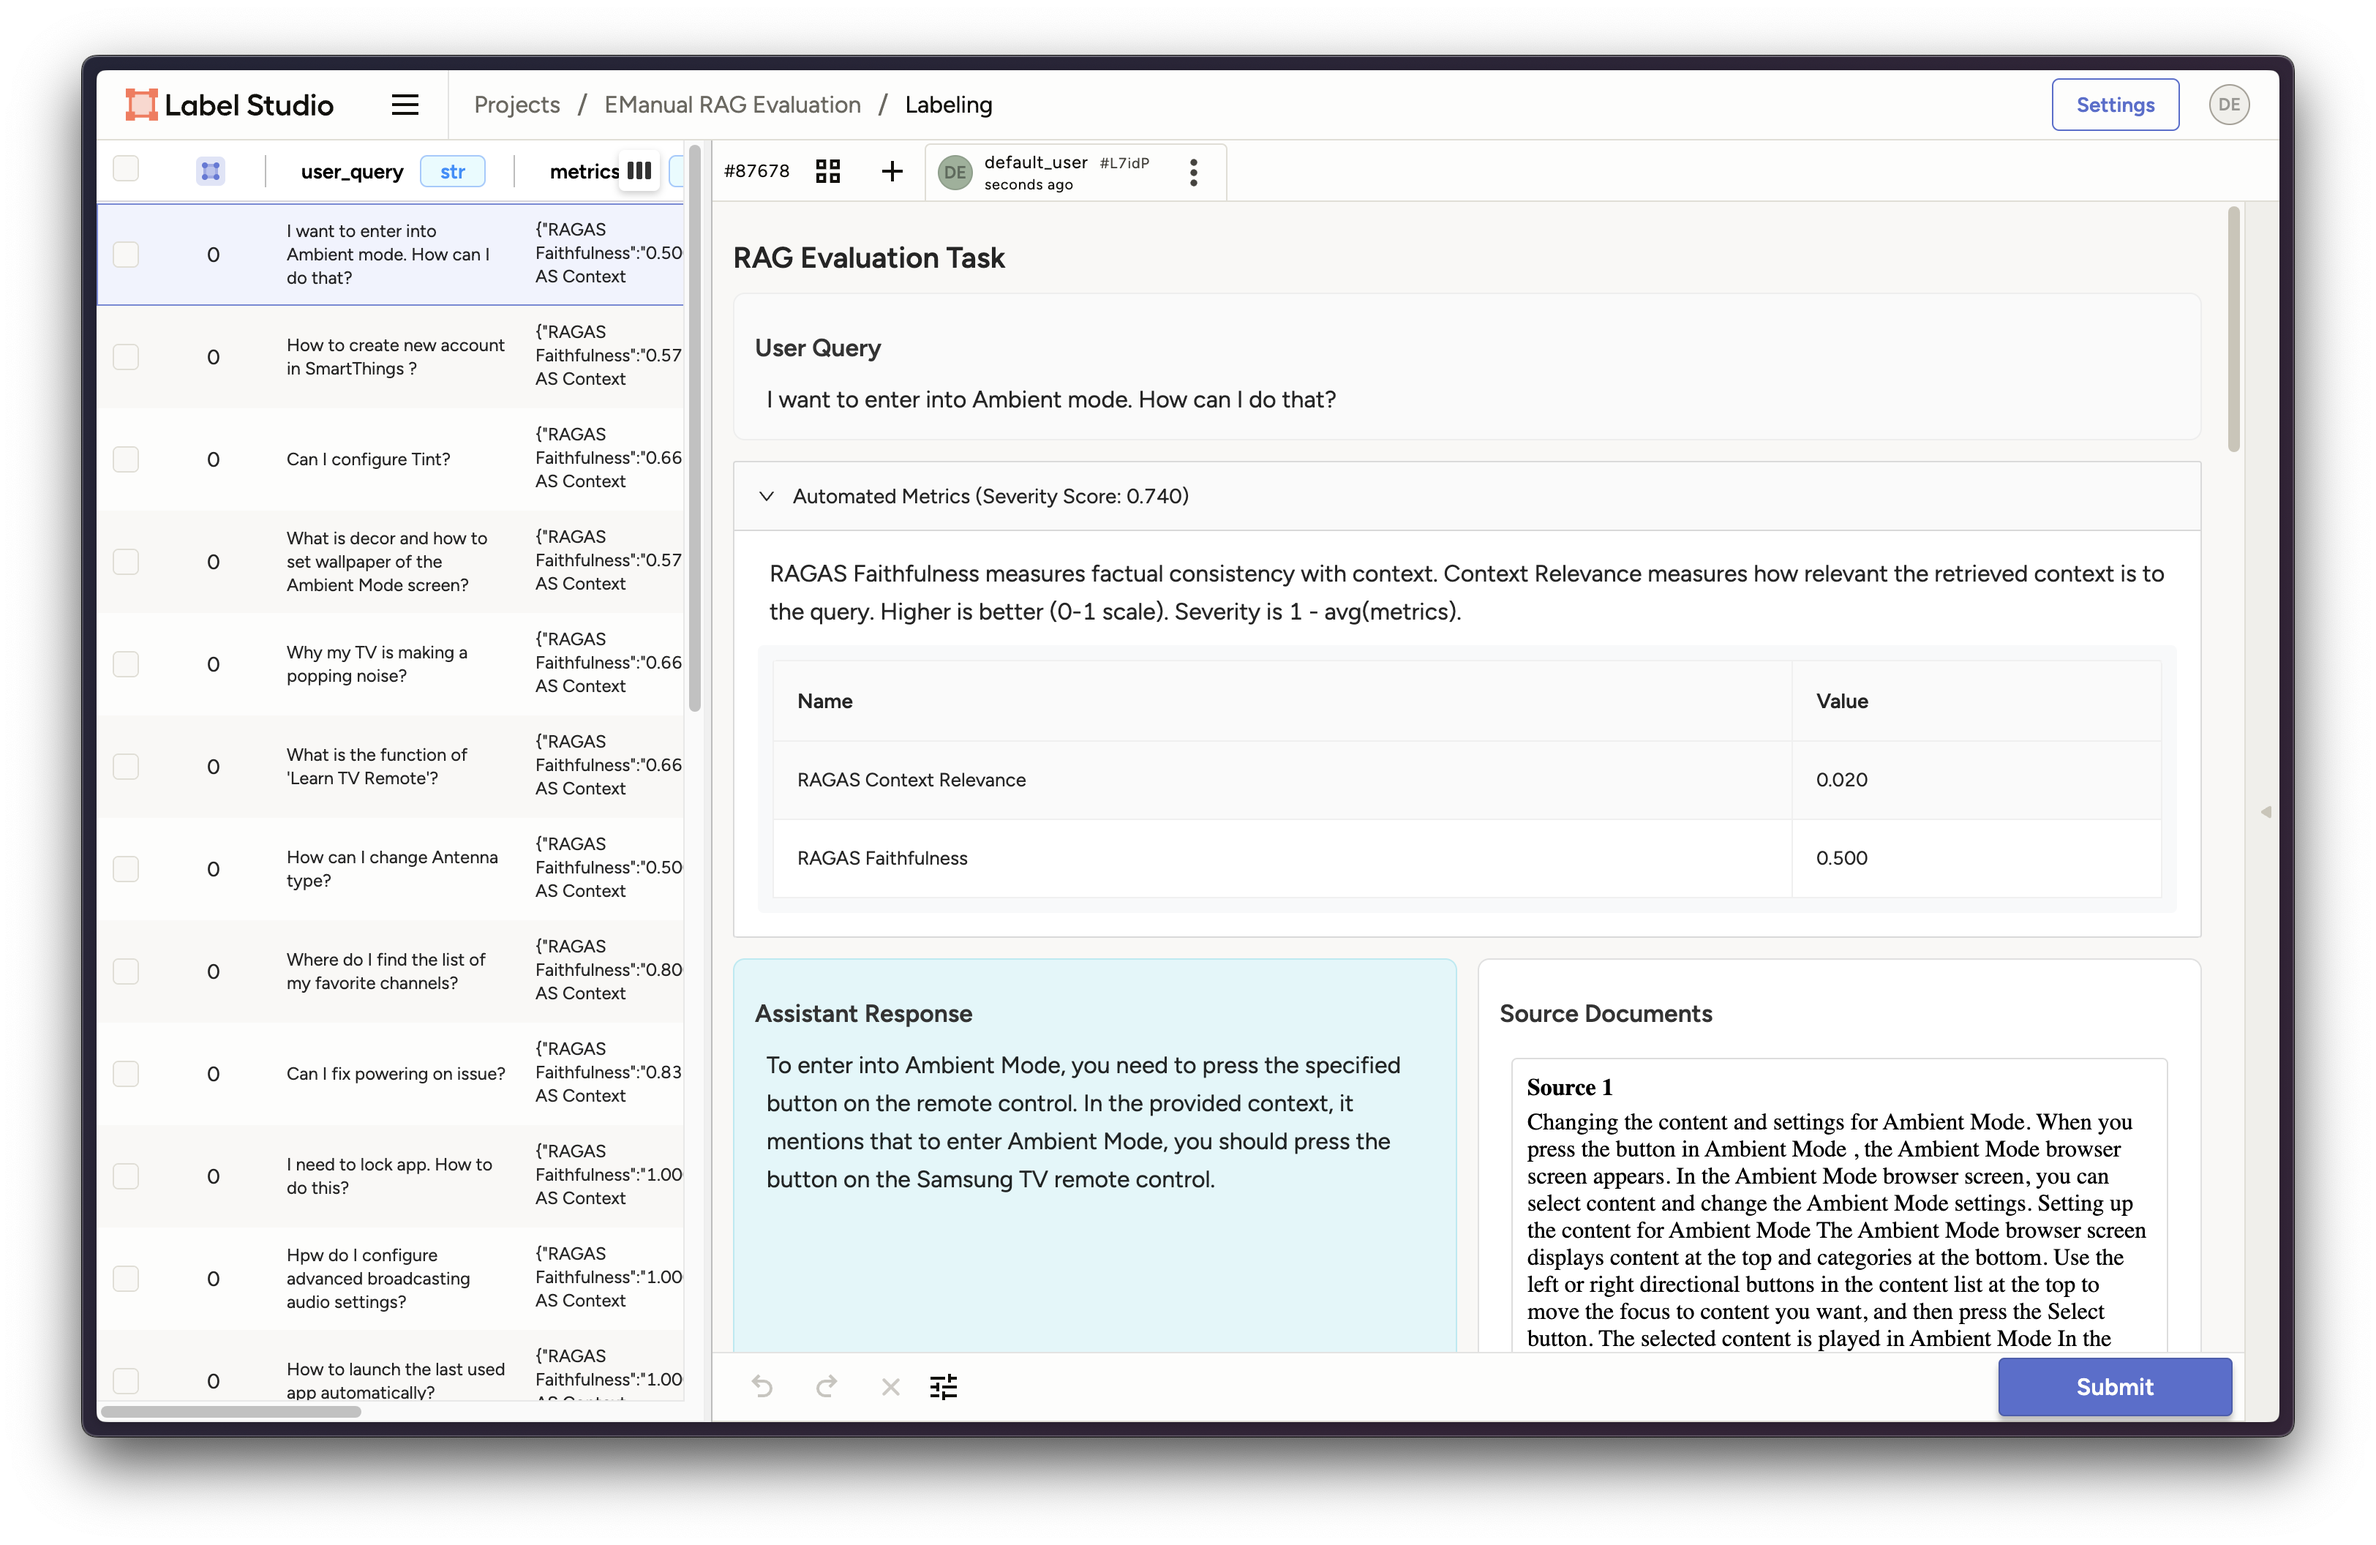
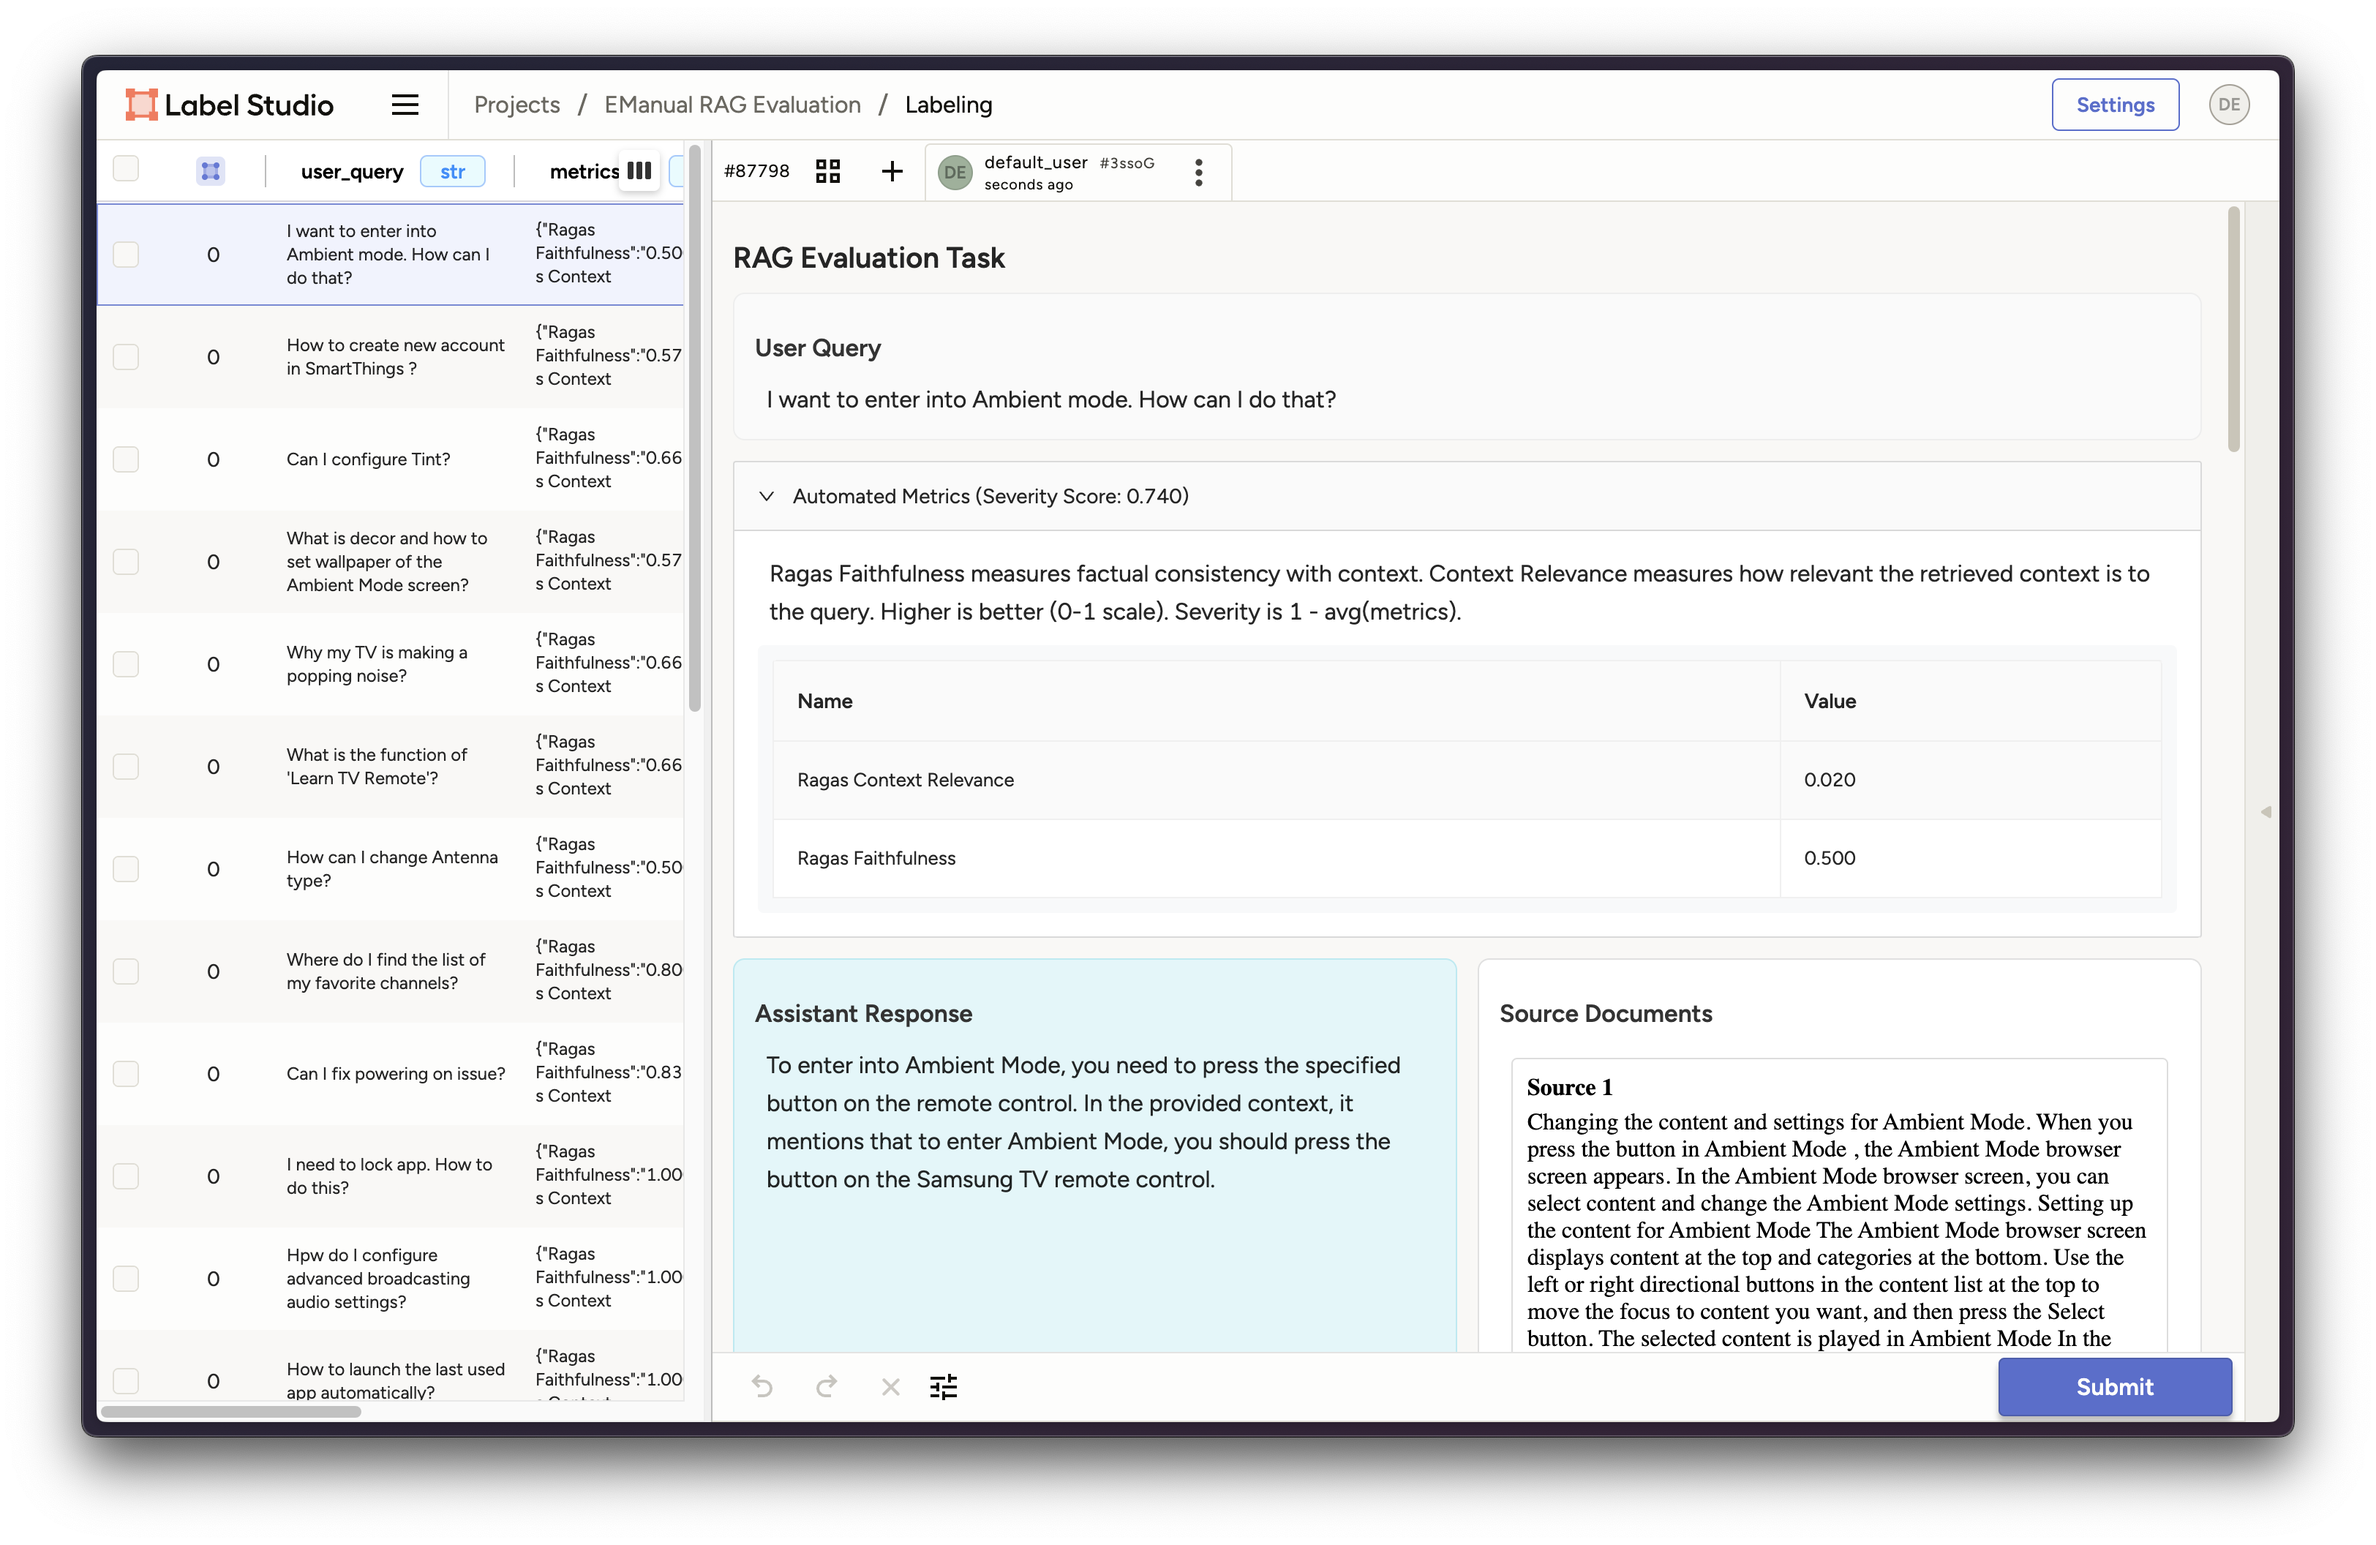
Changed RAGAS to Ragas to match other references

diff --git a/rag-qa-review/README.md b/rag-qa-review/README.md
@@ -2,18 +2,18 @@
 
 This example demonstrates how to use Label Studio to review and evaluate the outputs of a Retrieval-Augmented Generation (RAG) system.
 
-It leverages the [RAGBench dataset](https://huggingface.co/datasets/rungalileo/ragbench) (specifically the `emanual` subset, containing questions and answers based on consumer electronics manuals) and the [RAGAS](https://github.com/explodinggradients/ragas) framework for automated evaluation metrics.
+It leverages the [RAGBench dataset](https://huggingface.co/datasets/rungalileo/ragbench) (specifically the `emanual` subset, containing questions and answers based on consumer electronics manuals) and the [Ragas](https://github.com/explodinggradients/ragas) framework for automated evaluation metrics.
 
 ## Workflow
 
 The core workflow implemented in the accompanying Jupyter Notebook ([`RAG_Review.ipynb`](./RAG_QA_Review.ipynb)) is as follows:
 
-1.  **Load Data**: Loads the RAGBench `emanual` test dataset, which includes questions, generated responses, retrieved source documents, and pre-computed RAGAS metrics (faithfulness, context relevance).
-2.  **Identify Critical Samples**: Filters the dataset to find samples where the RAG system performed poorly, based on configurable thresholds for RAGAS `faithfulness` and `context_relevance`.
+1.  **Load Data**: Loads the RAGBench `emanual` test dataset, which includes questions, generated responses, retrieved source documents, and pre-computed Ragas metrics (faithfulness, context relevance).
+2.  **Identify Critical Samples**: Filters the dataset to find samples where the RAG system performed poorly, based on configurable thresholds for Ragas `faithfulness` and `context_relevance`.
 A `severity_score` is calculated to prioritize the most problematic examples.
 3.  **Format for Label Studio**: Transforms the critical samples into a JSON format suitable for Label Studio import. This includes:
     *   Structuring the data with fields like `user_query`, `assistant_response`, etc.
-    *   Formatting the source documents and RAGAS metrics using HTML for clear presentation in the Label Studio UI.
+    *   Formatting the source documents and Ragas metrics using HTML for clear presentation in the Label Studio UI.
 4.  **Define Labeling Interface**: Creates a custom Label Studio labeling configuration (`label_config`) tailored for RAG evaluation. This interface allows reviewers to assess:
     *   Response Quality (Accuracy, Completeness)
     *   Context Evaluation (Source Coverage, Missing Information)
